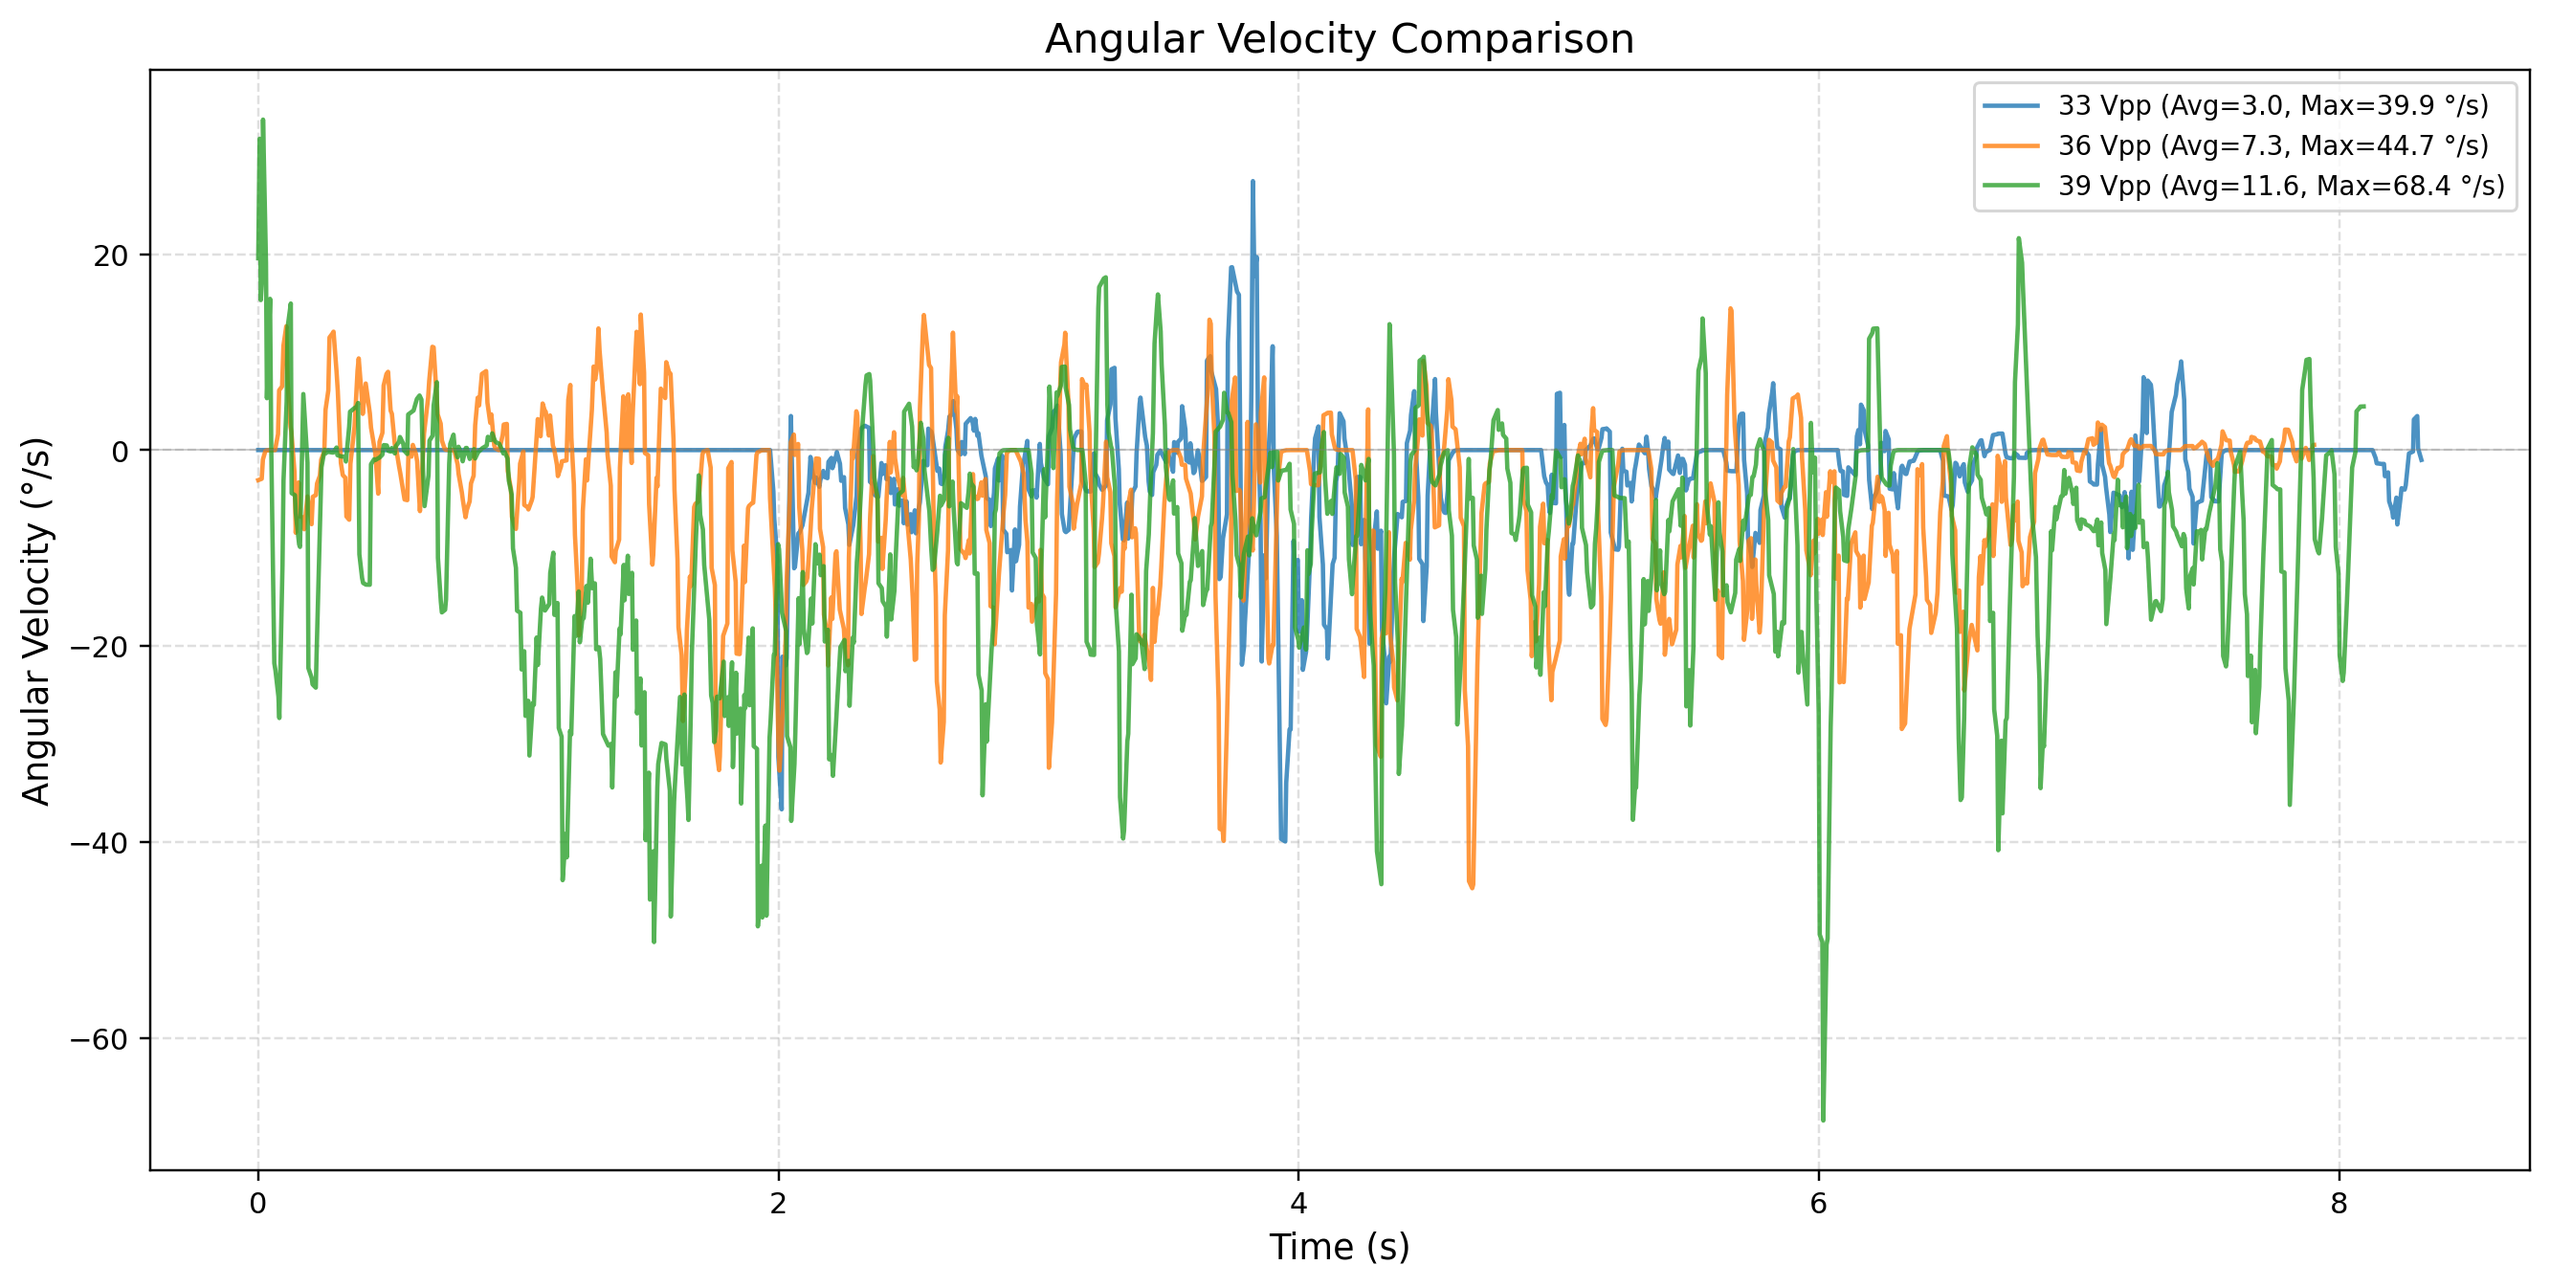
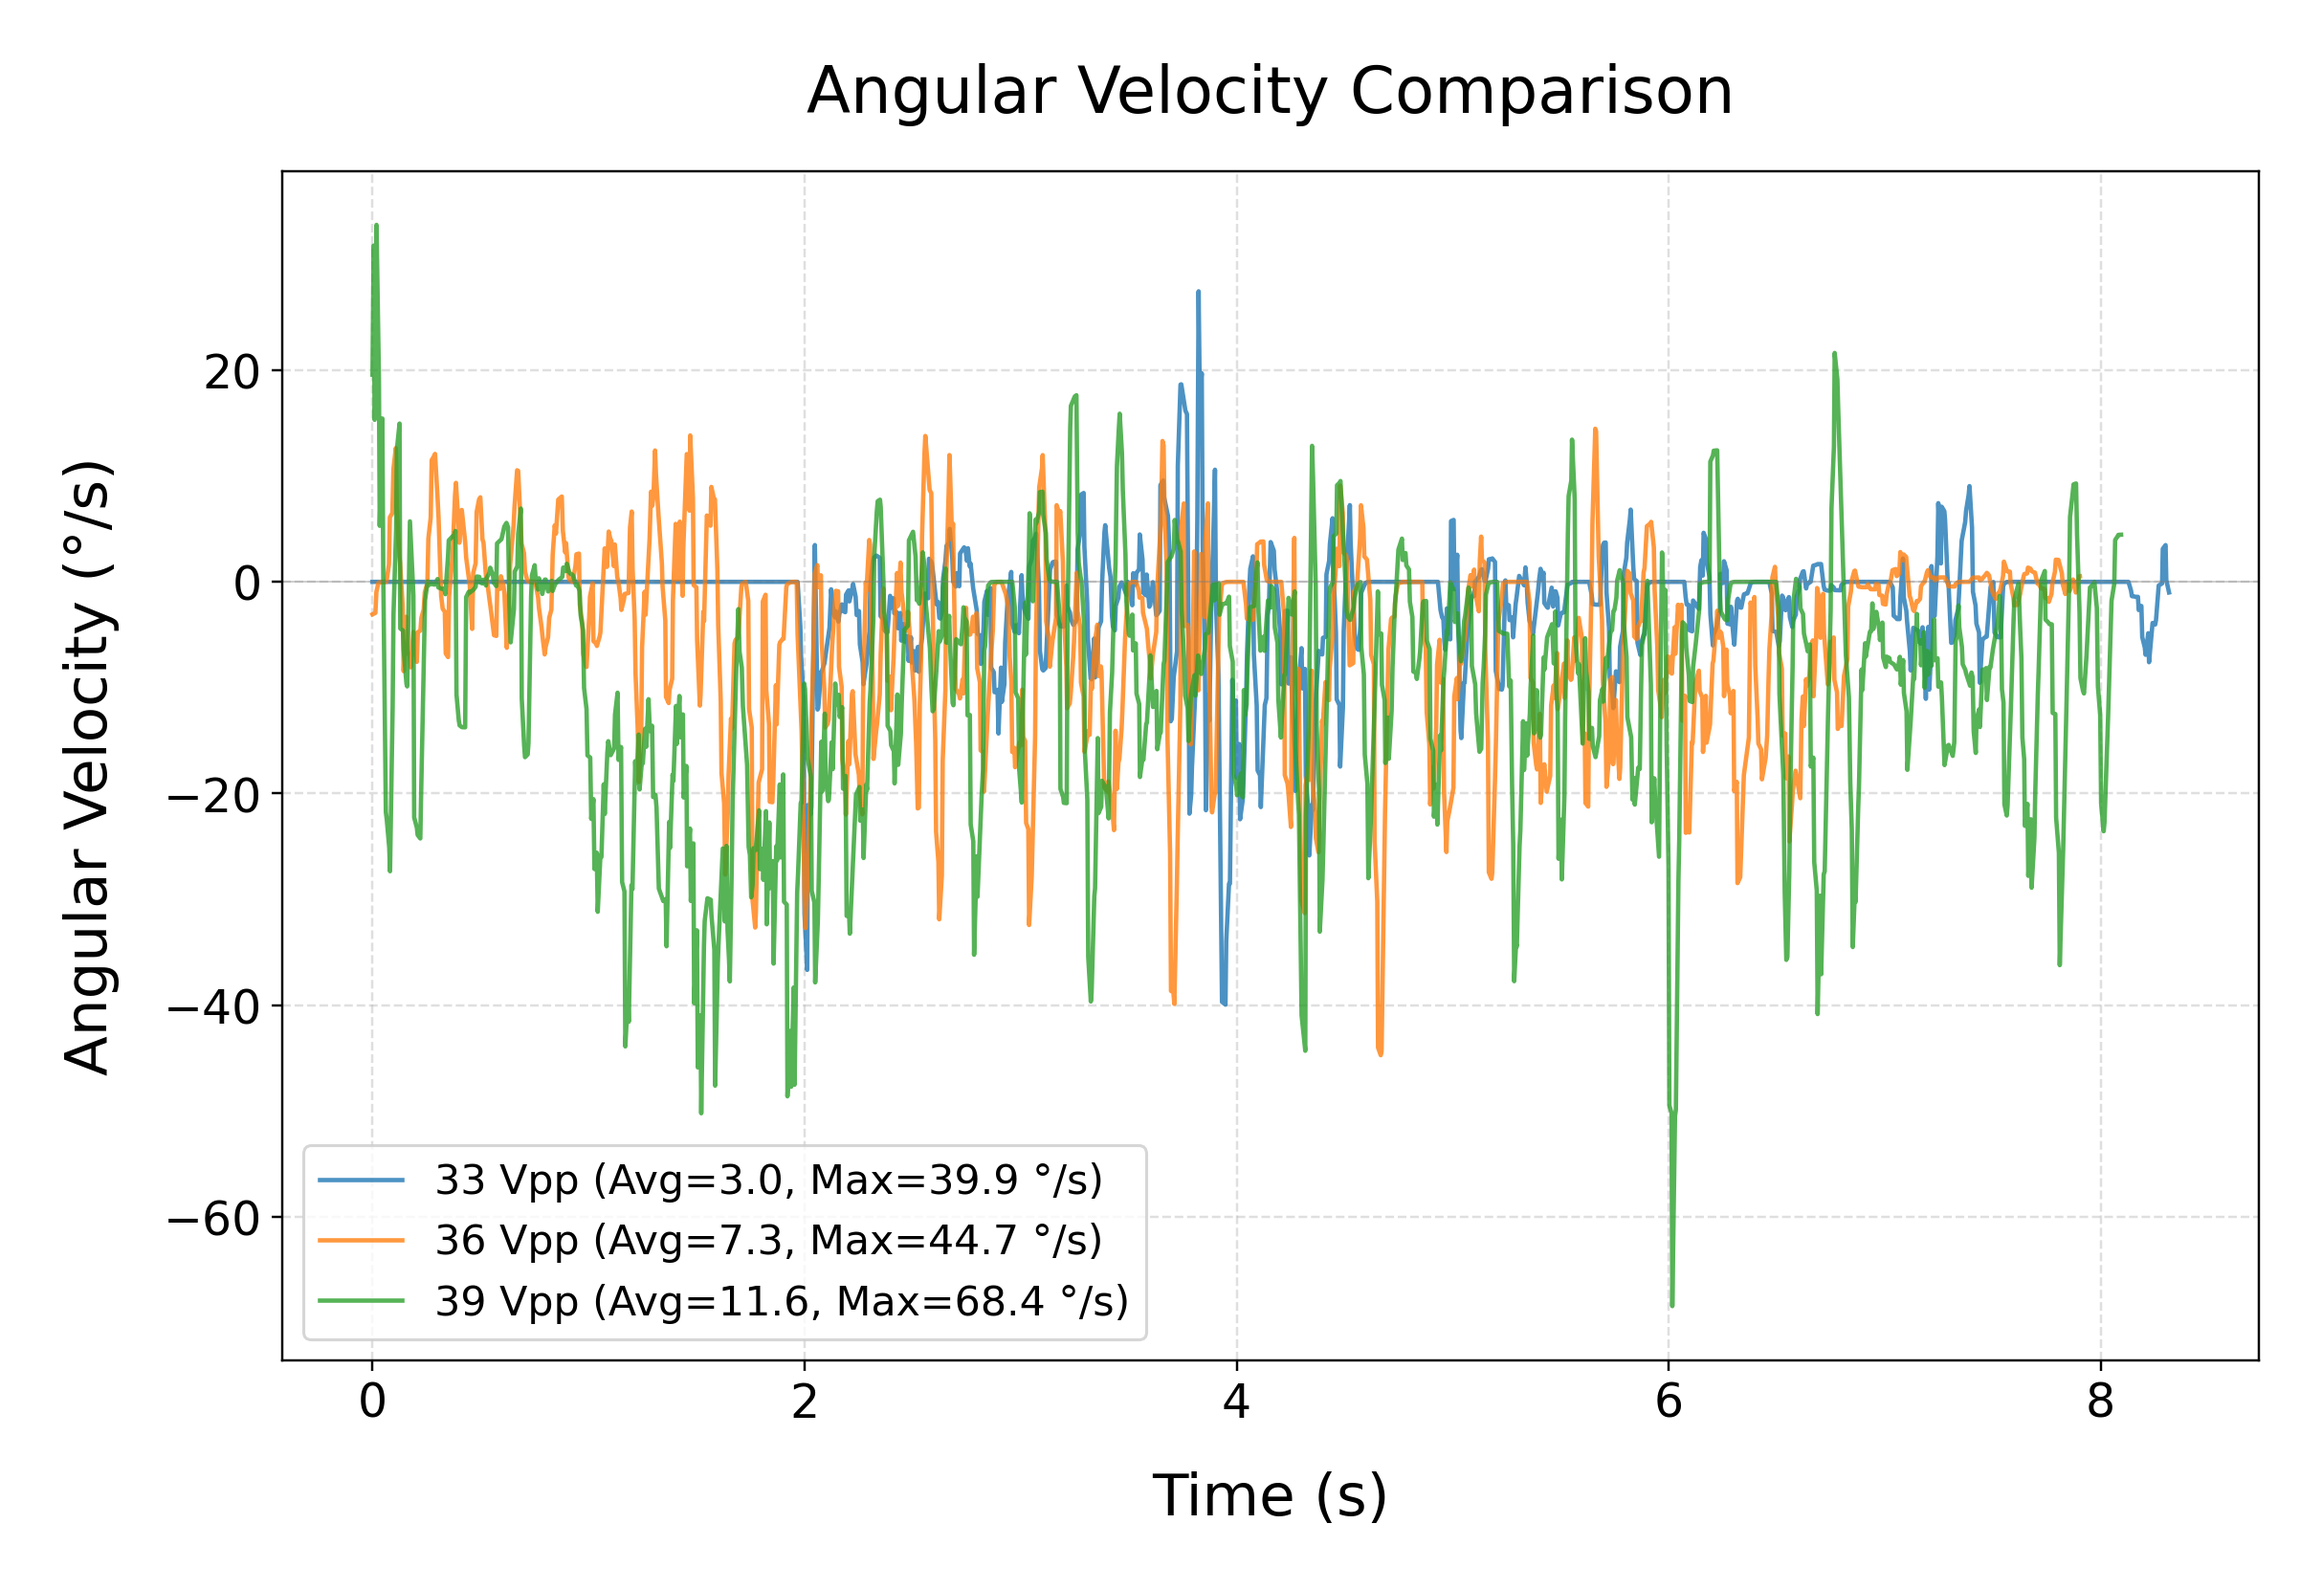
edit x y label font size

diff --git a/data analysis (straight)/multi_trajectory_analysis.py b/data analysis (straight)/multi_trajectory_analysis.py
@@ -35,7 +35,7 @@ SAVGOL_POLY_ORDER = 3  # Savitzky-Golay 多項式階數
 MOVING_AVG_WINDOW = 5  # 移動平均窗口大小
 
 # 啟動檢測參數
-STARTUP_SPEED_THRESHOLD = 5.0  # 啟動速度閾值 (mm/s)，速度超過此值視為已啟動
+STARTUP_SPEED_THRESHOLD = 10.0  # 啟動速度閾值 (mm/s)，速度超過此值視為已啟動
 
 
 def detect_startup_index(speed_data, threshold=None):
@@ -163,7 +163,7 @@ def plot_multi_trajectories(data_dict, output_path, title="Position Comparison")
         return
     
     # 創建圖表
-    fig, ax = plt.subplots(1, 1, figsize=(10, 10), constrained_layout=True)
+    fig, ax = plt.subplots(1, 1, figsize=(9, 9))
     
     # 設定顏色循環
     colors = plt.cm.tab10.colors  # 使用 tab10 色盤
@@ -250,19 +250,23 @@ def plot_multi_trajectories(data_dict, output_path, title="Position Comparison")
     
     # 設定圖表樣式
     ax.set_aspect("equal", adjustable="box")
-    ax.set_xlabel("x (mm)", fontsize=12)
-    ax.set_ylabel("y (mm)", fontsize=12)
-    ax.set_title(title, fontsize=14)
-    ax.grid(True, linestyle="--", alpha=0.4)
-    ax.legend(loc="best", fontsize=9)
+    ax.set_xlabel("x (mm)", fontsize=24, labelpad=15)
+    ax.set_ylabel("y (mm)", fontsize=24, labelpad=15)
+    ax.set_title(title, fontsize=22, pad=20)
+    ax.tick_params(axis='both', which='major', labelsize=16)
+    #ax.grid(True, linestyle="--", alpha=0.4)
+    ax.legend(loc="best", fontsize=14)
     
     # 添加圖例說明
     smooth_info = f" (Smoothed: {SMOOTHING_METHOD})" if SMOOTHING_ENABLED else ""
     ax.annotate(f"○ = Start, □ = End{smooth_info}", xy=(0.02, 0.02), xycoords='axes fraction',
-                fontsize=9, color='gray')
+                fontsize=12, color='gray')
+    
+    # 調整佈局以增加留白
+    plt.tight_layout(pad=2.0)
     
     # 儲存圖表
-    fig.savefig(output_path, dpi=220, bbox_inches='tight')
+    fig.savefig(output_path, dpi=220, bbox_inches='tight', pad_inches=0.3)
     plt.close(fig)
     print(f"\n✓ 圖表已儲存: {output_path}")
 
@@ -287,7 +291,7 @@ def plot_multi_speed_comparison(data_dict, output_path, title="Speed Comparison"
         return
     
     # 創建圖表
-    fig, ax = plt.subplots(1, 1, figsize=(12, 10), constrained_layout=True)
+    fig, ax = plt.subplots(1, 1, figsize=(11, 8))
     
     # 設定顏色循環
     colors = plt.cm.tab10.colors
@@ -323,18 +327,18 @@ def plot_multi_speed_comparison(data_dict, output_path, title="Speed Comparison"
                 ax.axvline(x=t_relative[startup_idx], color=color, linestyle='--', alpha=0.3, lw=1)
     
     # 設定圖表樣式
-    ax.set_xlabel("Time (s)", fontsize=14)
-    ax.set_ylabel("Speed (mm/s)", fontsize=14)
-    ax.set_title(title, fontsize=16)
-    ax.grid(True, linestyle="--", alpha=0.4)
-    ax.legend(loc="upper left", fontsize=18)
+    ax.set_xlabel("Time (s)", fontsize=24, labelpad=15)
+    ax.set_ylabel("Speed (mm/s)", fontsize=24, labelpad=15)
+    ax.set_title(title, fontsize=22, pad=20)
+    ax.tick_params(axis='both', which='major', labelsize=16)
+    #ax.grid(True, linestyle="--", alpha=0.4)
+    ax.legend(loc="upper left", fontsize=14)
     
-    # 添加說明
-    ax.annotate(f"Avg calculated after startup (threshold={STARTUP_SPEED_THRESHOLD} mm/s)", 
-                xy=(0.02, 0.02), xycoords='axes fraction', fontsize=10, color='gray')
+    # 調整佈局以增加留白
+    plt.tight_layout(pad=2.0)
     
     # 儲存圖表
-    fig.savefig(output_path, dpi=220, bbox_inches='tight')
+    fig.savefig(output_path, dpi=220, bbox_inches='tight', pad_inches=0.3)
     plt.close(fig)
     print(f"✓ 速度比較圖已儲存: {output_path}")
 
@@ -359,7 +363,7 @@ def plot_multi_speed_simple(data_dict, output_path, title="Speed Comparison (Sim
         return
     
     # 創建長方形圖表
-    fig, ax = plt.subplots(1, 1, figsize=(12, 10), constrained_layout=True)
+    fig, ax = plt.subplots(1, 1, figsize=(11, 8))
     
     # 設定顏色循環
     colors = plt.cm.tab10.colors
@@ -385,14 +389,18 @@ def plot_multi_speed_simple(data_dict, output_path, title="Speed Comparison (Sim
             ax.plot(t_relative, speed_valid, lw=1.5, color=color, label=name, alpha=0.8)
     
     # 設定圖表樣式
-    ax.set_xlabel("Time (s)", fontsize=14)
-    ax.set_ylabel("Speed (mm/s)", fontsize=14)
-    ax.set_title(title, fontsize=16)
-    ax.grid(True, linestyle="--", alpha=0.4)
+    ax.set_xlabel("Time (s)", fontsize=24, labelpad=15)
+    ax.set_ylabel("Speed (mm/s)", fontsize=24, labelpad=15)
+    ax.set_title(title, fontsize=22, pad=20)
+    ax.tick_params(axis='both', which='major', labelsize=16)
+    #ax.grid(True, linestyle="--", alpha=0.4)
     ax.legend(loc="upper left", fontsize=14)
     
+    # 調整佈局以增加留白
+    plt.tight_layout(pad=2.0)
+    
     # 儲存圖表
-    fig.savefig(output_path, dpi=220, bbox_inches='tight')
+    fig.savefig(output_path, dpi=220, bbox_inches='tight', pad_inches=0.3)
     plt.close(fig)
     print(f"✓ 簡化速度比較圖已儲存: {output_path}")
 
@@ -417,7 +425,7 @@ def plot_multi_angle_comparison(data_dict, output_path, title="Orientation Compa
         return
     
     # 創建圖表
-    fig, ax = plt.subplots(1, 1, figsize=(12, 6), constrained_layout=True)
+    fig, ax = plt.subplots(1, 1, figsize=(11, 7.5))
     
     # 設定顏色循環
     colors = plt.cm.tab10.colors
@@ -450,14 +458,18 @@ def plot_multi_angle_comparison(data_dict, output_path, title="Orientation Compa
             ax.plot(t_relative, angle_relative, lw=1.5, color=color, label=label, alpha=0.8)
     
     # 設定圖表樣式
-    ax.set_xlabel("Time (s)", fontsize=12)
-    ax.set_ylabel("Relative Angle (deg)", fontsize=12)
-    ax.set_title(title, fontsize=14)
-    ax.grid(True, linestyle="--", alpha=0.4)
-    ax.legend(loc="best", fontsize=9)
+    ax.set_xlabel("Time (s)", fontsize=24, labelpad=15)
+    ax.set_ylabel("Relative Angle (deg)", fontsize=24, labelpad=15)
+    ax.set_title(title, fontsize=22, pad=20)
+    ax.tick_params(axis='both', which='major', labelsize=16)
+    #ax.grid(True, linestyle="--", alpha=0.4)
+    ax.legend(loc="best", fontsize=14)
+    
+    # 調整佈局以增加留白
+    plt.tight_layout(pad=2.0)
     
     # 儲存圖表
-    fig.savefig(output_path, dpi=220, bbox_inches='tight')
+    fig.savefig(output_path, dpi=220, bbox_inches='tight', pad_inches=0.3)
     plt.close(fig)
     print(f"✓ 角度比較圖已儲存: {output_path}")
 

diff --git a/data analysis (rotation)/rotation_trajectory_analysis.py b/data analysis (rotation)/rotation_trajectory_analysis.py
@@ -38,7 +38,7 @@ SAVGOL_POLY_ORDER = 3  # Savitzky-Golay 多項式階數
 MOVING_AVG_WINDOW = 5  # 移動平均窗口大小
 
 # 啟動偵測參數
-MOTION_START_THRESHOLD = 5.0  # 角速度閾值（°/s），超過此值視為開始運動
+MOTION_START_THRESHOLD = 10.0  # 角速度閾值（°/s），超過此值視為開始運動
 
 
 def smooth_data(data, method="savgol"):
@@ -121,7 +121,7 @@ def plot_multi_trajectories(data_dict, output_path, title="Position Comparison (
         return
     
     # 創建圖表
-    fig, ax = plt.subplots(1, 1, figsize=(10, 10), constrained_layout=True)
+    fig, ax = plt.subplots(1, 1, figsize=(9, 9))
     
     # 設定顏色循環
     colors = plt.cm.tab10.colors  # 使用 tab10 色盤
@@ -205,19 +205,23 @@ def plot_multi_trajectories(data_dict, output_path, title="Position Comparison (
     
     # 設定圖表樣式
     ax.set_aspect("equal", adjustable="box")
-    ax.set_xlabel("x (mm)", fontsize=12)
-    ax.set_ylabel("y (mm)", fontsize=12)
-    ax.set_title(title, fontsize=14)
+    ax.set_xlabel("x (mm)", fontsize=20, labelpad=15)
+    ax.set_ylabel("y (mm)", fontsize=20, labelpad=15)
+    ax.set_title(title, fontsize=22, pad=20)
+    ax.tick_params(axis='both', which='major', labelsize=16)
     ax.grid(True, linestyle="--", alpha=0.4)
-    ax.legend(loc="best", fontsize=9)
+    ax.legend(loc="best", fontsize=14)
     
     # 添加圖例說明
     smooth_info = f" (Smoothed: {SMOOTHING_METHOD})" if SMOOTHING_ENABLED else ""
     ax.annotate(f"○ = Start, □ = End{smooth_info}", xy=(0.02, 0.02), xycoords='axes fraction',
-                fontsize=9, color='gray')
+                fontsize=12, color='gray')
+    
+    # 調整佈局以增加留白
+    plt.tight_layout(pad=2.0)
     
     # 儲存圖表
-    fig.savefig(output_path, dpi=220, bbox_inches='tight')
+    fig.savefig(output_path, dpi=220, bbox_inches='tight', pad_inches=0.3)
     plt.close(fig)
     print(f"\n✓ 位置圖表已儲存: {output_path}")
 
@@ -263,8 +267,8 @@ def plot_multi_angle_comparison(data_dict, output_path, title="Angle vs Time Com
         print("CSV 檔案中沒有 angle_deg_unwrapped 欄位，跳過角度比較圖")
         return
     
-    # 創建圖表 - 圖片大小改為 12*10
-    fig, ax = plt.subplots(1, 1, figsize=(12, 10), constrained_layout=True)
+    # 創建圖表
+    fig, ax = plt.subplots(1, 1, figsize=(11, 8))
     
     # 設定顏色循環
     colors = plt.cm.tab10.colors
@@ -320,14 +324,18 @@ def plot_multi_angle_comparison(data_dict, output_path, title="Angle vs Time Com
         ax.plot(t_relative, angle_relative, lw=1.5, color=color, label=label, alpha=0.8)
     
     # 設定圖表樣式
-    ax.set_xlabel("Time (s)", fontsize=12)
-    ax.set_ylabel("Relative Angle (deg)", fontsize=12)
-    ax.set_title(title, fontsize=14)
+    ax.set_xlabel("Time (s)", fontsize=20, labelpad=15)
+    ax.set_ylabel("Relative Angle (deg)", fontsize=20, labelpad=15)
+    ax.set_title(title, fontsize=22, pad=20)
+    ax.tick_params(axis='both', which='major', labelsize=16)
     ax.grid(True, linestyle="--", alpha=0.4)
-    ax.legend(loc="best", fontsize=18)  # legend 字體改為 16
+    ax.legend(loc="best", fontsize=14)
+    
+    # 調整佈局以增加留白
+    plt.tight_layout(pad=2.0)
     
     # 儲存圖表
-    fig.savefig(output_path, dpi=220, bbox_inches='tight')
+    fig.savefig(output_path, dpi=220, bbox_inches='tight', pad_inches=0.3)
     plt.close(fig)
     print(f"✓ 角度 vs 時間圖表已儲存: {output_path}")
 
@@ -352,7 +360,7 @@ def plot_multi_angular_velocity_comparison(data_dict, output_path, title="Angula
         return
     
     # 創建圖表
-    fig, ax = plt.subplots(1, 1, figsize=(12, 6), constrained_layout=True)
+    fig, ax = plt.subplots(1, 1, figsize=(11, 7.5))
     
     # 設定顏色循環
     colors = plt.cm.tab10.colors
@@ -384,17 +392,21 @@ def plot_multi_angular_velocity_comparison(data_dict, output_path, title="Angula
             ax.plot(t_relative, angular_vel_valid, lw=1.5, color=color, label=label, alpha=0.8)
     
     # 設定圖表樣式
-    ax.set_xlabel("Time (s)", fontsize=12)
-    ax.set_ylabel("Angular Velocity (°/s)", fontsize=12)
-    ax.set_title(title, fontsize=14)
+    ax.set_xlabel("Time (s)", fontsize=20, labelpad=15)
+    ax.set_ylabel("Angular Velocity (°/s)", fontsize=20, labelpad=15)
+    ax.set_title(title, fontsize=22, pad=20)
+    ax.tick_params(axis='both', which='major', labelsize=16)
     ax.grid(True, linestyle="--", alpha=0.4)
-    ax.legend(loc="best", fontsize=9)
+    ax.legend(loc="best", fontsize=14)
     
     # 添加零線
     ax.axhline(y=0, color='gray', linestyle='-', linewidth=0.5, alpha=0.5)
     
+    # 調整佈局以增加留白
+    plt.tight_layout(pad=2.0)
+    
     # 儲存圖表
-    fig.savefig(output_path, dpi=220, bbox_inches='tight')
+    fig.savefig(output_path, dpi=220, bbox_inches='tight', pad_inches=0.3)
     plt.close(fig)
     print(f"✓ 角速度比較圖已儲存: {output_path}")
 
